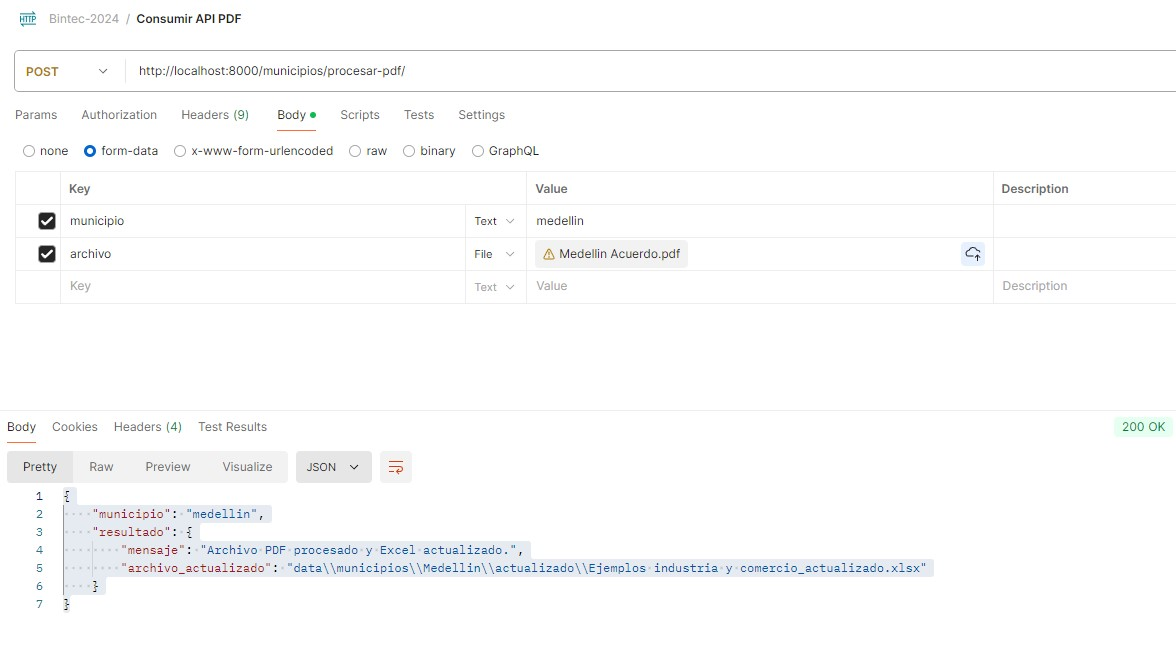
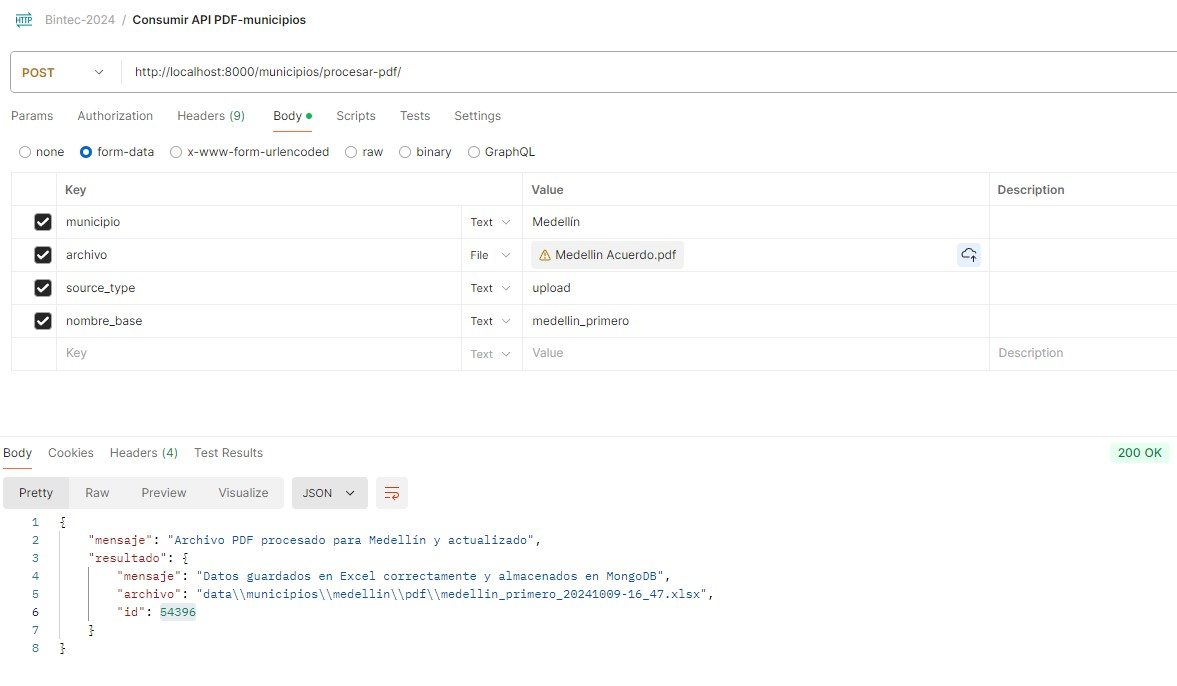
proyecto con ajustes finales

diff --git a/app/routers/municipio_router.py b/app/routers/municipio_router.py
@@ -2,18 +2,31 @@ from app.config.db_archivos import *
 from fastapi import APIRouter, UploadFile, File, Form, HTTPException
 from app.services.file_processor import procesar_pdf_y_guardar_en_excel_medellin
 from app.services.procesar_pdf_manizales_ocr import procesar_pdf_y_guardar_en_excel_manizales
-import gridfs
 import os
 import shutil
 import openpyxl
-import aiofiles  # For asynchronous file operations
+import aiofiles  # Para operaciones de archivo asíncronas
 from concurrent.futures import ThreadPoolExecutor
 from functools import lru_cache
 from datetime import datetime
 import random
+import unicodedata
+import logging
 
+# Configuración del logging
+logging.basicConfig(level=logging.INFO)
 
 router = APIRouter()
+
+def normalize_string(s):
+    # Elimina acentos o tildes y convierte a minúsculas
+    return ''.join(
+        c for c in unicodedata.normalize('NFD', s)
+        if unicodedata.category(c) != 'Mn'
+    ).lower()
+def normalize_string_capitalized(s):
+    # Elimina acentos o tildes, convierte en minúsculas y capitaliza la primera letra
+    return normalize_string(s).capitalize()
 
 # Simulated function to get file from a SharePoint-like structure
 def obtener_archivo_desde_simulacion_sharepoint(filename, municipio):
@@ -23,9 +36,9 @@ def obtener_archivo_desde_simulacion_sharepoint(filename, municipio):
         raise HTTPException(status_code=404, detail=f"Archivo {filename} no encontrado en la carpeta simulada de SharePoint.")
     return archivo_path
 
-# Generate a unique filename in case of conflicts
+# Generar un nombre único en caso de conflictos
 def generar_nombre_unico(base_nombre, extension, ruta_directorio):
-    fecha_actual = datetime.now().strftime("%Y%m%d")  # Obtener la fecha actual en formato YYYYMMDD
+    fecha_actual = datetime.now().strftime("%Y%m%d-%H_%M")
     nuevo_nombre = f"{base_nombre}_{fecha_actual}{extension}"  # Crear el nombre con fecha
     # Verificar si el archivo ya existe
     if not os.path.exists(os.path.join(ruta_directorio, nuevo_nombre)):
@@ -33,27 +46,27 @@ def generar_nombre_unico(base_nombre, extension, ruta_directorio):
     # Si el nombre ya existe, retornar un error o manejar la situación
     raise FileExistsError(f"El archivo {nuevo_nombre} ya existe en {ruta_directorio}.")
 
-# Generate a unique ID of 5 digits
+# Generar un ID único de 5 dígitos
 def generar_id_unico():
     while True:
         nuevo_id = random.randint(10000, 99999)  # Genera un número entre 10000 y 99999
         if fs.find_one({"id": nuevo_id}) is None:  # Verifica que no exista en la colección
             return nuevo_id
 
-# Cache to avoid loading the template repeatedly
+# Cache para evitar cargar la plantilla repetidamente
 @lru_cache(maxsize=10)
 def cargar_plantilla_excel(ruta_plantilla):
     if not os.path.exists(ruta_plantilla):
         raise HTTPException(status_code=404, detail="No se encontró la plantilla base.")
     return ruta_plantilla
 
-# Function to run processing in parallel
+# Función para ejecutar el procesamiento en paralelo
 def procesar_municipio_pdf_async(funcion, *args):
     with ThreadPoolExecutor() as executor:
         futuro = executor.submit(funcion, *args)
         return futuro.result()
 
-# Unified endpoint for processing PDF for multiple municipalities
+# Endpoint unificado para procesar PDF para múltiples municipios
 @router.post("/municipios/procesar-pdf/", tags=["municipios"])
 async def procesar_pdf_municipio(
     municipio: str = Form(...),
@@ -61,71 +74,74 @@ async def procesar_pdf_municipio(
     source_type: str = Form(...),
     nombre_base: str = Form(...)
 ):
-    ruta_procesar = None  # Initialize the variable here
+    # Normalizar el nombre del municipio
+    municipio_normalizado = normalize_string(municipio)
+    municipio_capitalizado = normalize_string_capitalized(municipio)
+    ruta_procesar = None  # Inicializar la variable aquí
     try:
-        # Validate source type
+        # Validar el tipo de fuente
         if source_type not in ["upload", "sharepoint"]:
             raise HTTPException(status_code=400, detail="source_type debe ser 'upload' o 'sharepoint'.")
 
-        # Handle uploaded files (upload)
+        # Manejar archivos subidos (upload)
         if source_type == "upload":
             if archivo is None:
                 raise HTTPException(status_code=500, detail="Debe subir un archivo si selecciona 'upload'.")
 
-            # Define path to save the PDF
-            ruta_directorio_pdf = os.path.join("data", "municipios", municipio, "pdf")
+            # Definir la ruta para guardar el PDF
+            ruta_directorio_pdf = os.path.join("data", "municipios", municipio_normalizado, "pdf")
             os.makedirs(ruta_directorio_pdf, exist_ok=True)
             ruta_guardado_pdf = os.path.join(ruta_directorio_pdf, archivo.filename)
             try:
-                # Save the PDF file asynchronously
+                # Guardar el archivo PDF de forma asíncrona
                 async with aiofiles.open(ruta_guardado_pdf, "wb") as buffer:
                     contenido = await archivo.read()
                     await buffer.write(contenido)
-                ruta_procesar = ruta_guardado_pdf  # Assign after successful save
+                ruta_procesar = ruta_guardado_pdf  # Asignar después de guardar correctamente
             except Exception as e:
                 raise HTTPException(status_code=500, detail="Error al guardar el archivo PDF.")
 
-        # Handle files from SharePoint
+        # Manejar archivos desde SharePoint
         elif source_type == "sharepoint":
             if archivo and archivo.filename:
                 raise HTTPException(status_code=400, detail="No debes subir archivos si vas a consultar desde SharePoint.")
-            filename = f"{municipio.capitalize()} Acuerdo.pdf"
-            ruta_procesar = obtener_archivo_desde_simulacion_sharepoint(filename, municipio)
+            filename = f"{municipio_capitalizado} Acuerdo.pdf"
+            ruta_procesar = obtener_archivo_desde_simulacion_sharepoint(filename, municipio_normalizado)
 
-        # Validation if ruta_procesar was not assigned
+        # Validación si ruta_procesar no fue asignada
         if ruta_procesar is None:
             raise HTTPException(status_code=500, detail="No se pudo determinar la ruta del archivo a procesar.")
 
-        # Generate a unique Excel filename
+        # Generar un nombre de archivo Excel único
         extension_excel = ".xlsx"
-        ruta_directorio_base = os.path.join("data", "municipios", municipio, "sharepoint" if source_type == "sharepoint" else "pdf")
+        ruta_directorio_base = os.path.join("data", "municipios", municipio_normalizado, "sharepoint" if source_type == "sharepoint" else "pdf")
         ruta_nuevo_archivo_excel = os.path.join(
             ruta_directorio_base,
             generar_nombre_unico(nombre_base, extension_excel, ruta_directorio_base)
         )
 
-        # Load the Excel template using cache
-        ruta_plantilla = cargar_plantilla_excel(os.path.join("data", "municipios", municipio, "plantilla", "Ejemplos industria y comercio3.xlsx"))
+        # Cargar la plantilla de Excel usando caché
+        ruta_plantilla = cargar_plantilla_excel(os.path.join("data", "municipios", municipio_normalizado, "plantilla", "Ejemplos industria y comercio3.xlsx"))
         shutil.copyfile(ruta_plantilla, ruta_nuevo_archivo_excel)
 
-        # Process the PDF according to the municipality, in parallel if CPU-bound
-        if municipio.lower() == "medellin":
-            resultado = procesar_municipio_pdf_async(procesar_pdf_y_guardar_en_excel_medellin, ruta_procesar, municipio)
-        elif municipio.lower() == "manizales":
-            resultado = procesar_municipio_pdf_async(procesar_pdf_y_guardar_en_excel_manizales, ruta_procesar, municipio)
+        # Procesar el PDF según el municipio, en paralelo si está en CPU
+        if municipio_normalizado == "medellin":
+            resultado = procesar_municipio_pdf_async(procesar_pdf_y_guardar_en_excel_medellin, ruta_procesar, municipio_normalizado)
+        elif municipio_normalizado == "manizales":
+            resultado = procesar_municipio_pdf_async(procesar_pdf_y_guardar_en_excel_manizales, ruta_procesar, municipio_normalizado)
         else:
             raise HTTPException(status_code=400, detail=f"El municipio '{municipio}' no está soportado.")
 
-        # Update the Excel file with the results
+        # Actualizar el archivo Excel con los resultados
         wb = openpyxl.load_workbook(ruta_nuevo_archivo_excel)
         hoja = wb.active
         hoja["A1"] = f"Datos procesados del archivo: {ruta_procesar}"
         wb.save(ruta_nuevo_archivo_excel)
 
-        # Generate a unique ID
+        # Generar un ID único
         nuevo_id = generar_id_unico()
 
-        # Save the Excel file to MongoDB using GridFS
+        # Guardar el archivo Excel en MongoDB usando GridFS
         with open(ruta_nuevo_archivo_excel, "rb") as archivo_excel:
             contenido_excel = archivo_excel.read()
             # Crear un documento para MongoDB
@@ -133,10 +149,10 @@ async def procesar_pdf_municipio(
                 "id": nuevo_id,
                 "nombre_archivo": os.path.basename(ruta_nuevo_archivo_excel),
                 "contenido": contenido_excel,
-                "municipio": municipio,
+                "municipio": municipio_normalizado,
                 "fecha": datetime.now()
             }
-            fs.put(contenido_excel, filename=os.path.basename(ruta_nuevo_archivo_excel), id=nuevo_id)  # Save to GridFS
+            fs.put(contenido_excel, filename=os.path.basename(ruta_nuevo_archivo_excel), id=nuevo_id)  # Guardar en GridFS
 
         return {
             "mensaje": f"Archivo PDF procesado para {municipio} y actualizado",
@@ -146,8 +162,7 @@ async def procesar_pdf_municipio(
                 "id": nuevo_id  # Devolver el ID generado
             }
         }
-
-    except HTTPException as http_ex:
-        raise http_ex  # Reraise HTTPExceptions as is
+    
     except Exception as e:
+        logging.error(f"Error procesando municipio {municipio}: {e}")
         raise HTTPException(status_code=500, detail=str(e))

diff --git a/app/main.py b/app/main.py
@@ -1,7 +1,7 @@
 from fastapi import FastAPI
 from app.routers.municipio_router import router
 from app.routers.user import user
-
+from fastapi.middleware.cors import CORSMiddleware 
 from app.routers.exogena import router as exogena_router
 from app.routers.descarga import router as descarga_router 
 
@@ -11,11 +11,18 @@ app = FastAPI(
     description="La API automatiza la extracción de información clave de diversos formatos de documentos (PDF, imagen, Word, Excel) relacionados con la normativa fiscal (ICA). Revisa y extrae secciones específicas como artículos y normas, transfiriéndolas a una matriz de Excel para cálculos posteriores sobre tipos y porcentajes necesarios para el cumplimiento del ICA. ",
     version="1.0.0"
 )
+# Configuración del CORS: Permite solicitudes desde el frontend
+app.add_middleware(
+    CORSMiddleware,
+    allow_origins="http://localhost:3000",
+    allow_credentials=True,
+    allow_methods=["*"],  
+    allow_headers=["*"],  
+)
 
 # Incluir router de municipios
 app.include_router(router)
 app.include_router(user)
-
 app.include_router(exogena_router)
 app.include_router(descarga_router)
 

diff --git a/app/routers/exogena.py b/app/routers/exogena.py
@@ -16,3 +16,4 @@ async def procesar_exogena_endpoint(municipio: str = Form(...)):
         return FileResponse(ruta_excel, media_type='application/vnd.openxmlformats-officedocument.spreadsheetml.sheet', filename=os.path.basename(ruta_excel))
     except Exception as e:
         raise HTTPException(status_code=status.HTTP_500_INTERNAL_SERVER_ERROR, detail=f"Error al procesar el archivo: {str(e)}")
+              

diff --git a/app/services/file_processor.py b/app/services/file_processor.py
@@ -10,6 +10,7 @@ from app.utils.pdf_processing import (
     buscar_valor_articulo_56
 )
 
+
 def procesar_pdf_y_guardar_en_excel_medellin(ruta_pdf, municipio):
     """Procesa un PDF y guarda la información en un archivo de Excel específico."""
     ruta_excel = os.path.join('data', 'municipios', municipio, 'plantilla', 'Ejemplos industria y comercio3.xlsx')
